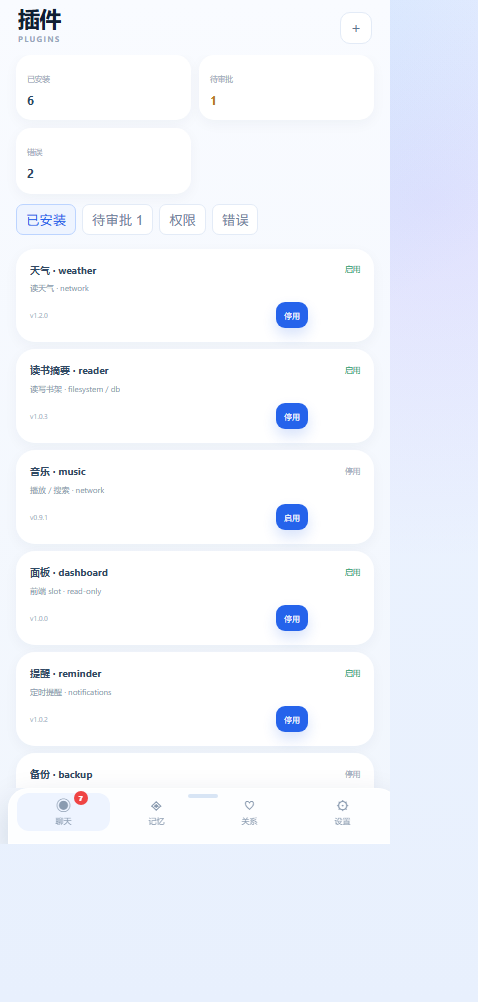
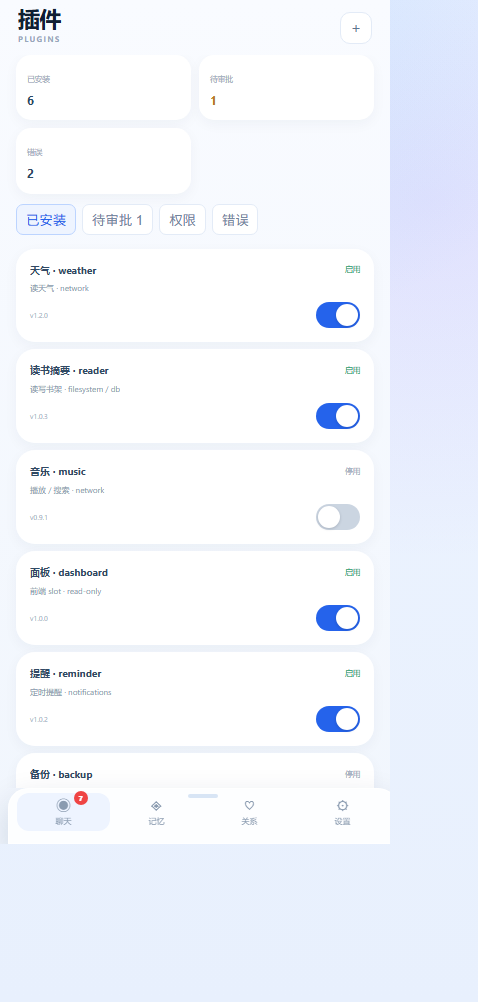
design(v35.9.4): 插件启停统一为胶囊开关

diff --git a/docs/design/v35/mobile/hoshinoumi-mobile-v35.7-demo.html b/docs/design/v35/mobile/hoshinoumi-mobile-v35.7-demo.html
@@ -216,7 +216,7 @@ body.embed #view{height:100dvh!important}
 .perm-head{display:flex;align-items:center;gap:9px;padding:14px 2px 9px;flex:none}.perm-head .back{width:30px;height:32px;border:0;background:none;color:#52708f;font-size:22px}.perm-head h2{margin:0;font-size:22px;letter-spacing:-.03em}.perm-head small{display:block;font-size:7px;letter-spacing:.16em;color:#9aabc0;margin-top:2px}.perm-note{margin:0 2px 10px;padding:8px 9px;border:1px solid #dbe8ff;border-radius:9px;background:#f4f9ff;color:#71859d;font-size:7.5px;line-height:1.6}.perm-body{padding-bottom:18px}.perm-group{background:#fff;border:1px solid #e3ebf7;border-radius:13px;padding:4px 11px;margin-bottom:9px}.perm-title{font-size:8px;color:#8a9bb0;padding:7px 0 2px;letter-spacing:.08em}.perm-row{display:flex;align-items:center;gap:9px;padding:9px 0;border-bottom:1px solid #f1f5fb}.perm-row:last-child{border-bottom:0}.perm-row .ic{width:27px;height:27px;border-radius:8px;background:#f4f8ff;color:#52708f;display:grid;place-items:center;font-size:12px;flex:none}.perm-row .t{flex:1;min-width:0}.perm-row .t b{display:block;font-size:9.5px;color:#314a65}.perm-row .t small{display:block;font-size:7px;color:#9aabc0;margin-top:2px}.perm-open{height:22px;border:1px solid #dbe8ff;border-radius:6px;background:#f4f9ff;color:#2563eb;font:7px inherit;padding:0 7px;flex:none}.perm-state{font-size:7px;border-radius:5px;padding:2px 5px}.perm-state.warn{color:#b7791f;background:#fff8e6;border:1px solid #f2d491}.perm-state.ok{color:#1f9d6b;background:#eefbf5;border:1px solid #cdeee0}.perm-foot{text-align:center;color:#9aabc0;font-size:7px;line-height:1.7;padding:5px 0 12px}
 
 .perm-row .switch{width:32px;height:18px;border-radius:10px;background:#cbd5e1;position:relative;flex:none;cursor:pointer;transition:background .18s}.perm-row .switch.on{background:#2563eb}.perm-row .switch:after{content:"";position:absolute;width:14px;height:14px;border-radius:50%;background:#fff;top:2px;left:2px;transition:left .18s}.perm-row .switch.on:after{left:16px}
-.cron-row .switch,.cron-item .switch,.perm-row .switch,.d-card .switch{width:44px!important;height:26px!important;border-radius:13px!important}.cron-row .switch:after,.cron-item .switch:after,.perm-row .switch:after,.d-card .switch:after{width:22px!important;height:22px!important;top:2px!important;left:2px!important}.cron-row .switch.on:after,.cron-item .switch.on:after,.perm-row .switch.on:after,.d-card .switch.on:after{left:20px!important}</style>
+.cron-row .switch,.cron-item .switch,.perm-row .switch,.d-card .switch{position:relative!important;width:44px!important;height:26px!important;min-width:44px;min-height:26px;border-radius:13px!important;background:#cbd5e1!important;transition:background .18s;flex:none}.cron-row .switch.on,.cron-item .switch.on,.perm-row .switch.on,.d-card .switch.on{background:#2563eb!important}.cron-row .switch:after,.cron-item .switch:after,.perm-row .switch:after,.d-card .switch:after{content:"";position:absolute!important;width:22px!important;height:22px!important;border-radius:50%;background:#fff!important;top:2px!important;left:2px!important;box-shadow:0 1px 3px rgba(15,23,42,.18);transition:left .18s}.cron-row .switch.on:after,.cron-item .switch.on:after,.perm-row .switch.on:after,.d-card .switch.on:after{left:20px!important}</style>
 <link rel="stylesheet" href="mobile-native.css">
 </head>
 <body>
@@ -745,7 +745,7 @@ const pluginErrors = [
 function selectPluginTab(tab){ pluginTab = tab; renderPluginPage() }
 function pluginCard(item, pending=false){
   if(pending) return `<div class="d-card" style="margin-bottom:7px;border-color:#f2d491;background:#fffaf0"><div style="display:flex;align-items:center;gap:7px"><b style="font-size:10px;color:#314a65">${item.name} · ${item.slug}</b><em style="margin-left:auto;font-style:normal;font-size:7.5px;color:#b7791f">待审批</em></div><div style="font-size:8px;color:#8a9bb0;margin-top:4px">${item.desc} · ${item.perm.join(' / ')}（owner）</div><div style="display:flex;gap:6px;margin-top:8px"><button class="add-btn" style="flex:1;height:28px" onclick="approvePlugin('${item.id}')">批准</button><button class="add-btn" style="flex:1;height:28px;background:#fff;color:#b23b52;border:1px solid #fecaca" onclick="rejectPlugin('${item.id}')">拒绝</button></div></div>`
-  return `<div class="d-card" style="margin-bottom:7px"><div style="display:flex;align-items:center;gap:7px"><b style="font-size:10px;color:#314a65">${item.name} · ${item.slug}</b><em style="margin-left:auto;font-style:normal;font-size:7.5px;color:${item.enabled?'#1f9d6b':'#9aabc0'}">${item.enabled?'启用':'停用'}</em></div><div style="font-size:8px;color:#8a9bb0;margin-top:4px">${item.desc} · ${item.perm.join(' / ')}</div><div style="display:flex;align-items:center;gap:8px;margin-top:8px"><small style="font-size:7px;color:#a8b5c7;margin-right:auto">v${item.version}</small><button class="add-btn" style="height:26px;font-size:8px;padding:0 8px" onclick="togglePluginState('${item.id}')">${item.enabled?'停用':'启用'}</button><div class="switch ${item.enabled?'on':''}" onclick="togglePluginState('${item.id}')"></div></div></div>`
+  return `<div class="d-card" style="margin-bottom:7px"><div style="display:flex;align-items:center;gap:7px"><b style="font-size:10px;color:#314a65">${item.name} · ${item.slug}</b><em style="margin-left:auto;font-style:normal;font-size:7.5px;color:${item.enabled?'#1f9d6b':'#9aabc0'}">${item.enabled?'启用':'停用'}</em></div><div style="font-size:8px;color:#8a9bb0;margin-top:4px">${item.desc} · ${item.perm.join(' / ')}</div><div style="display:flex;align-items:center;gap:8px;margin-top:8px"><small style="font-size:7px;color:#a8b5c7;margin-right:auto">v${item.version}</small><div class="switch ${item.enabled?'on':''}" role="switch" aria-checked="${item.enabled}" onclick="togglePluginState('${item.id}')"></div></div></div>`
 }
 function renderPluginPage(){
   if(!document.getElementById('pluginContent')) return

diff --git a/docs/design/v35/desktop/desktop.js b/docs/design/v35/desktop/desktop.js
@@ -160,7 +160,7 @@ function showPage(page){
 
   else if(page==='cron') pv.innerHTML=pageHead('定时任务','列表 / 启停 / 立即运行')+`<div class="pv-row">每日早报 · 08:00<span>启用</span></div><div class="pv-row">日记提醒 · 22:30<span>启用</span></div><div class="pv-row">健康检查 · 每小时<span>停用</span></div>`
 else if(page==='diary'){ pv.innerHTML=pageHead('日记','按月查看 · 前 50 字概览 · 点开详情')+`<div class="pv-grid"><div class="pv-card"><b id="diaryCount">—</b><small>全部日记</small></div><div class="pv-card"><b id="diaryMonthCount">—</b><small>月份</small></div><div class="pv-card"><b id="diaryLast">—</b><small>最近</small></div></div><div class="pv-sec">按月份查看</div><div class="pv-chips" id="diaryMonths"><button>加载中…</button></div><div class="pv-sec">本月日记</div><div id="diaryList"><div class="pv-row">正在读取 /api/diary<span>…</span></div></div>`; void loadDiaryPage() }
-  else if(page==='plugins') pv.innerHTML=pageHead('插件','安装 / 审批 / 权限 / 错误 · 独立管理页')+`<div class="pv-grid"><div class="pv-card"><b>6</b><small>已安装</small></div><div class="pv-card"><b>1</b><small>待审批</small></div><div class="pv-card"><b>2</b><small>错误</small></div></div><div class="pv-sec">已安装</div><div class="pv-row">天气 · weather<span>启用 · network</span><button class="back" onclick="toast('已停用 weather（演示）')">停用</button></div><div class="pv-row">读书摘要 · reader<span>启用 · filesystem</span><button class="back" onclick="toast('已停用 reader（演示）')">停用</button></div><div class="pv-row">音乐 · music<span>停用 · network</span><button class="back" onclick="toast('已启用 music（演示）')">启用</button></div><div class="pv-row">面板 · dashboard<span>启用 · read-only</span><button class="back" onclick="toast('已停用 dashboard（演示）')">停用</button></div><div class="pv-sec">待审批</div><div class="pv-row">记账助手 · ledger<span>finance · owner</span></div><div class="pv-sec">权限</div><div class="pv-row">network<span>2 个插件</span></div><div class="pv-row">filesystem<span>1 个</span></div><div class="pv-row">finance<span>需 owner</span></div><div class="pv-sec">错误</div><div class="pv-row">music 播放失败<span>20:12</span></div><div class="pv-row">weather 超时<span>18:03</span></div>`
+  else if(page==='plugins') pv.innerHTML=pageHead('插件','安装 / 审批 / 权限 / 错误 · 独立管理页')+`<div class="pv-grid"><div class="pv-card"><b>6</b><small>已安装</small></div><div class="pv-card"><b>1</b><small>待审批</small></div><div class="pv-card"><b>2</b><small>错误</small></div></div><div class="pv-sec">已安装</div><div class="pv-row">天气 · weather<span>启用 · network</span><span onclick="toast('已停用（演示）')" style="display:inline-block;width:44px;height:26px;border-radius:13px;background:#2563eb;position:relative;cursor:pointer;vertical-align:middle"><i style="position:absolute;width:22px;height:22px;border-radius:50%;background:#fff;top:2px;left:20px;box-shadow:0 1px 3px rgba(15,23,42,.18)"></i></span></div><div class="pv-row">读书摘要 · reader<span>启用 · filesystem</span><span onclick="toast('已停用（演示）')" style="display:inline-block;width:44px;height:26px;border-radius:13px;background:#2563eb;position:relative;cursor:pointer;vertical-align:middle"><i style="position:absolute;width:22px;height:22px;border-radius:50%;background:#fff;top:2px;left:20px;box-shadow:0 1px 3px rgba(15,23,42,.18)"></i></span></div><div class="pv-row">音乐 · music<span>停用 · network</span><span onclick="toast('已启用（演示）')" style="display:inline-block;width:44px;height:26px;border-radius:13px;background:#cbd5e1;position:relative;cursor:pointer;vertical-align:middle"><i style="position:absolute;width:22px;height:22px;border-radius:50%;background:#fff;top:2px;left:2px;box-shadow:0 1px 3px rgba(15,23,42,.18)"></i></span></div><div class="pv-row">面板 · dashboard<span>启用 · read-only</span><span onclick="toast('已停用（演示）')" style="display:inline-block;width:44px;height:26px;border-radius:13px;background:#2563eb;position:relative;cursor:pointer;vertical-align:middle"><i style="position:absolute;width:22px;height:22px;border-radius:50%;background:#fff;top:2px;left:20px;box-shadow:0 1px 3px rgba(15,23,42,.18)"></i></span></div><div class="pv-sec">待审批</div><div class="pv-row">记账助手 · ledger<span>finance · owner</span></div><div class="pv-sec">权限</div><div class="pv-row">network<span>2 个插件</span></div><div class="pv-row">filesystem<span>1 个</span></div><div class="pv-row">finance<span>需 owner</span></div><div class="pv-sec">错误</div><div class="pv-row">music 播放失败<span>20:12</span></div><div class="pv-row">weather 超时<span>18:03</span></div>`
     else if(page==='logs') pv.innerHTML=pageHead('运行日志','最近 3 条 · 设计稿')+`<div class="pv-code">09:13 INFO  chat target=10001 len=18
 09:12 INFO  command status
 09:04 WARN  search_images upstream timeout</div>`

diff --git a/docs/design/v35/web/demo.js b/docs/design/v35/web/demo.js
@@ -717,7 +717,7 @@
     }
     if (name === 'plugins') {
       pageView.innerHTML = '<div class="page-head"><div><h2>插件</h2><p>安装 / 审批 / 权限 / 错误 · 独立管理页</p></div><button class="back" id="backChat">← 返回聊天</button></div>' +
-        '<div class="pgrid"><div class="pcard2"><h3>已安装 6</h3><p>天气 · weather · 启用 · network <button class="back" onclick="toast(&quot;已停用 weather（演示）&quot;)">停用</button></p><p>读书摘要 · reader · 启用 · filesystem <button class="back" onclick="toast(&quot;已停用 reader（演示）&quot;)">停用</button></p><p>音乐 · music · 停用 · network <button class="back" onclick="toast(&quot;已启用 music（演示）&quot;)">启用</button></p><p>面板 · dashboard · 启用 · read-only <button class="back" onclick="toast(&quot;已停用 dashboard（演示）&quot;)">停用</button></p></div>' +
+        '<div class="pgrid"><div class="pcard2"><h3>已安装 6</h3><p>天气 · weather · 启用 · network <span onclick="toast(&quot;已停用（演示）&quot;)" style="display:inline-block;width:44px;height:26px;border-radius:13px;background:#2563eb;position:relative;cursor:pointer;vertical-align:middle"><i style="position:absolute;width:22px;height:22px;border-radius:50%;background:#fff;top:2px;left:20px;box-shadow:0 1px 3px rgba(15,23,42,.18)"></i></span></p><p>读书摘要 · reader · 启用 · filesystem <span onclick="toast(&quot;已停用（演示）&quot;)" style="display:inline-block;width:44px;height:26px;border-radius:13px;background:#2563eb;position:relative;cursor:pointer;vertical-align:middle"><i style="position:absolute;width:22px;height:22px;border-radius:50%;background:#fff;top:2px;left:20px;box-shadow:0 1px 3px rgba(15,23,42,.18)"></i></span></p><p>音乐 · music · 停用 · network <span onclick="toast(&quot;已启用（演示）&quot;)" style="display:inline-block;width:44px;height:26px;border-radius:13px;background:#cbd5e1;position:relative;cursor:pointer;vertical-align:middle"><i style="position:absolute;width:22px;height:22px;border-radius:50%;background:#fff;top:2px;left:2px;box-shadow:0 1px 3px rgba(15,23,42,.18)"></i></span></p><p>面板 · dashboard · 启用 · read-only <span onclick="toast(&quot;已停用（演示）&quot;)" style="display:inline-block;width:44px;height:26px;border-radius:13px;background:#2563eb;position:relative;cursor:pointer;vertical-align:middle"><i style="position:absolute;width:22px;height:22px;border-radius:50%;background:#fff;top:2px;left:20px;box-shadow:0 1px 3px rgba(15,23,42,.18)"></i></span></p></div>' +
         '<div class="pcard2"><h3>待审批 1</h3><p>记账助手 · ledger</p><p>需要 finance 权限 · 仅 owner</p><p style="margin-top:8px"><span class="badge pink">写操作必须审批</span></p></div>' +
         '<div class="pcard2"><h3>权限</h3><p>network · 2 个插件</p><p>filesystem · 1 个</p><p>finance · 需 owner</p></div>' +
         '<div class="pcard2"><h3>错误</h3><p>music 播放失败 · 20:12</p><p>weather 超时 · 18:03</p></div></div>';
